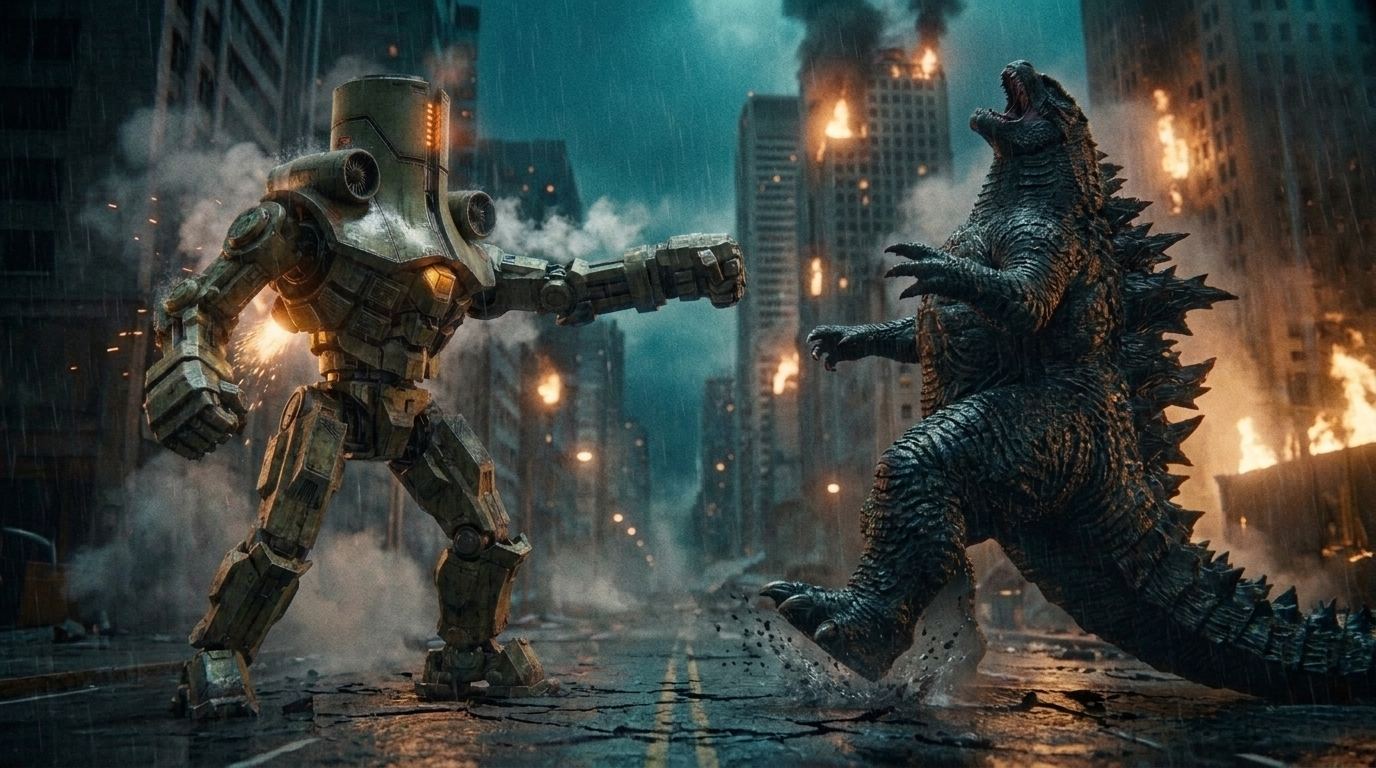
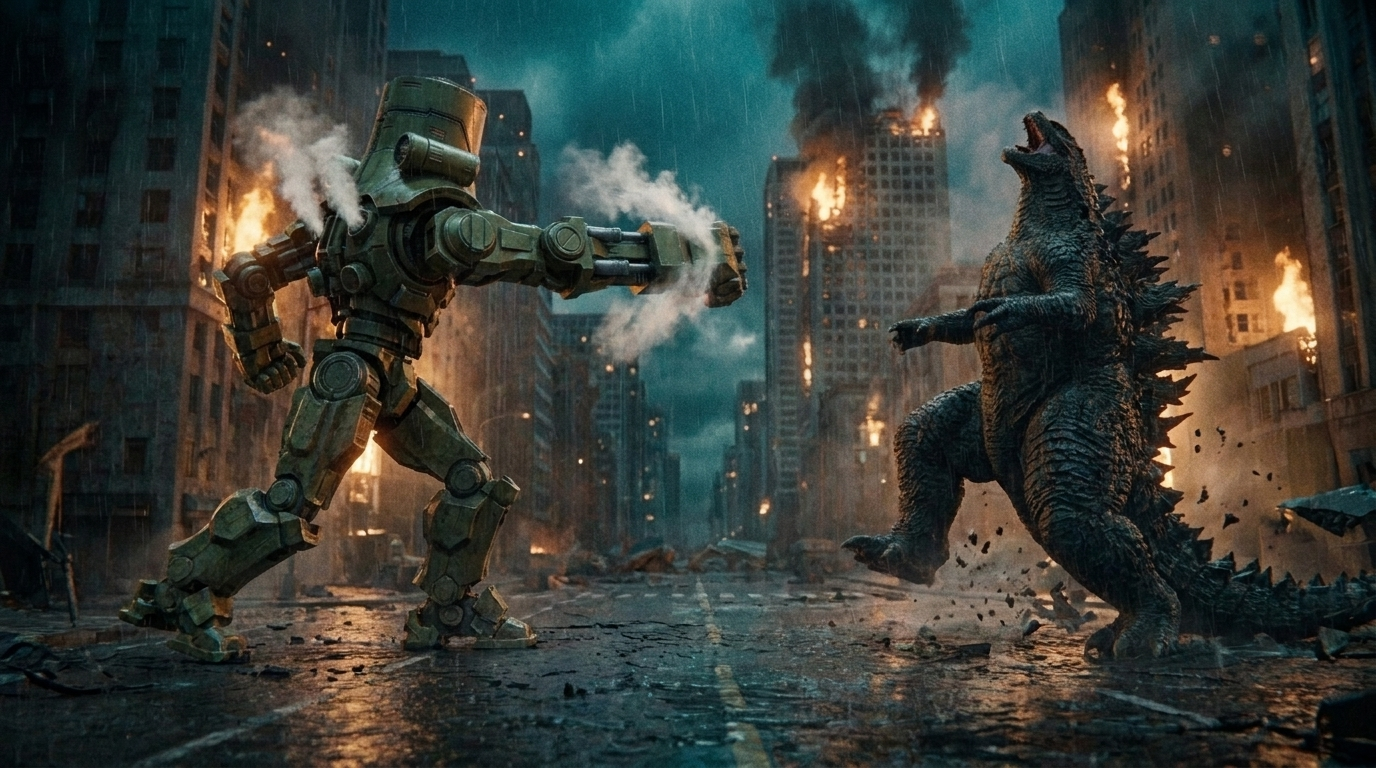
Fix Beat 04 (shot_13-shot_16) right-arm punch, intact chest shockwave, and lunge continuity

diff --git a/projects/cherno-alpha-vs-godzilla/PROGRESS.md b/projects/cherno-alpha-vs-godzilla/PROGRESS.md
@@ -21,7 +21,7 @@ Kết thúc phiên: `media-push` rồi `git add -A && git commit && git push` (q
 - **Slug:** `cherno-alpha-vs-godzilla` — thư mục `projects/cherno-alpha-vs-godzilla/` (KHÔNG `init` dự án mới)
 - **Flow:** https://flow.google.com/project/eba75017-1af5-48e6-b95b-1b0d6294c221
 - **Ngôn ngữ / khung:** en / 16:9; giọng dẫn `-`
-- **Cập nhật lần cuối:** 2026-10-22T20:56:57 trên máy **DESKTOP-HUP72C4** (lệnh `storyboard`)
+- **Cập nhật lần cuối:** 2026-10-22T21:17:19 trên máy **DESKTOP-HUP72C4** (lệnh `storyboard`)
 - **Storyboard:** chưa duyệt
 
 ## ▶ Bước tiếp theo: 4. 🧑 Chờ người dùng duyệt storyboard
@@ -152,6 +152,11 @@ python scripts/studio_helper.py storyboard-approve --project cherno-alpha-vs-god
 
 | Lúc | Máy | Lệnh | Kết quả |
 |---|---|---|---|
+| 10-22 21:17 | DESKTOP-HUP72C4 | `storyboard ` | ok |
+| 10-22 21:15 | DESKTOP-HUP72C4 | `flow-harvest --kind image --shots shot_13,shot_15,shot_16 --wait` | ok |
+| 10-22 21:15 | DESKTOP-HUP72C4 | `flow-generate --kind frames --shots shot_13,shot_15,shot_16 --count 2` | ok |
+| 10-22 21:11 | DESKTOP-HUP72C4 | `flow-harvest --kind image --shots shot_13,shot_14,shot_15,shot_16 --wait` | ok |
+| 10-22 21:11 | DESKTOP-HUP72C4 | `flow-generate --kind frames --shots shot_13,shot_14,shot_15,shot_16 --count 2` | ok |
 | 10-22 20:56 | DESKTOP-HUP72C4 | `storyboard ` | ok |
 | 10-22 20:55 | DESKTOP-HUP72C4 | `flow-harvest --kind image --shots shot_16 --wait` | ok |
 | 10-22 20:54 | DESKTOP-HUP72C4 | `flow-generate --kind frames --shots shot_16 --count 2` | ok |
@@ -162,8 +167,3 @@ python scripts/studio_helper.py storyboard-approve --project cherno-alpha-vs-god
 | 10-22 20:17 | DESKTOP-HUP72C4 | `flow-generate --kind frames --shots shot_16 --count 2` | ok |
 | 10-22 20:16 | DESKTOP-HUP72C4 | `flow-harvest --kind image --shots shot_16 --wait` | ok |
 | 10-22 20:16 | DESKTOP-HUP72C4 | `flow-generate --kind frames --shots shot_16 --count 2` | ok |
-| 10-22 20:13 | DESKTOP-HUP72C4 | `flow-harvest --kind image --shots shot_13,shot_14,shot_15,shot_16 --wait` | ok |
-| 10-22 20:13 | DESKTOP-HUP72C4 | `flow-generate --kind frames --shots shot_13,shot_14,shot_15,shot_16 --count 2` | ok |
-| 10-22 18:00 | DESKTOP-HUP72C4 | `storyboard ` | ok |
-| 10-22 17:59 | DESKTOP-HUP72C4 | `storyboard ` | ok |
-| 10-22 17:58 | DESKTOP-HUP72C4 | `flow-harvest --kind image --shots shot_11,shot_12 --wait` | ok |
